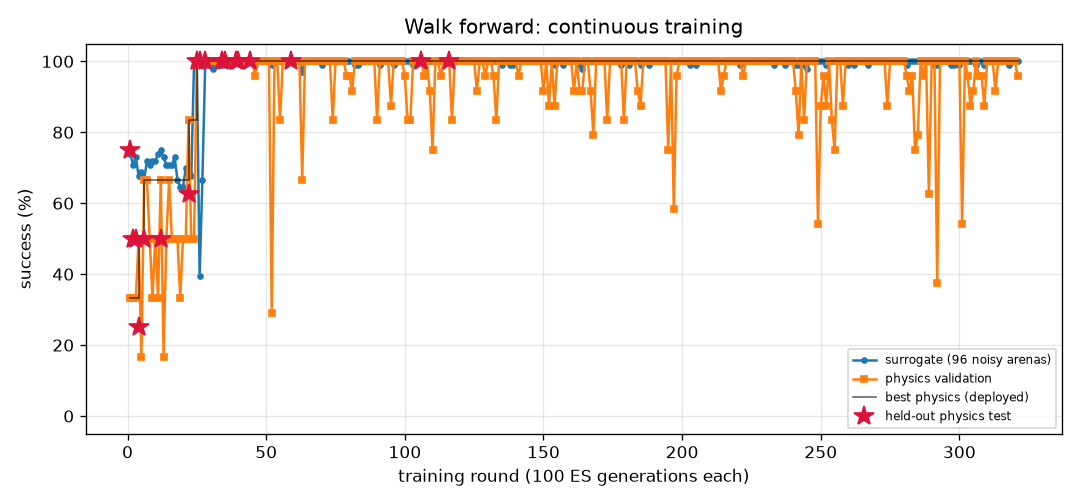
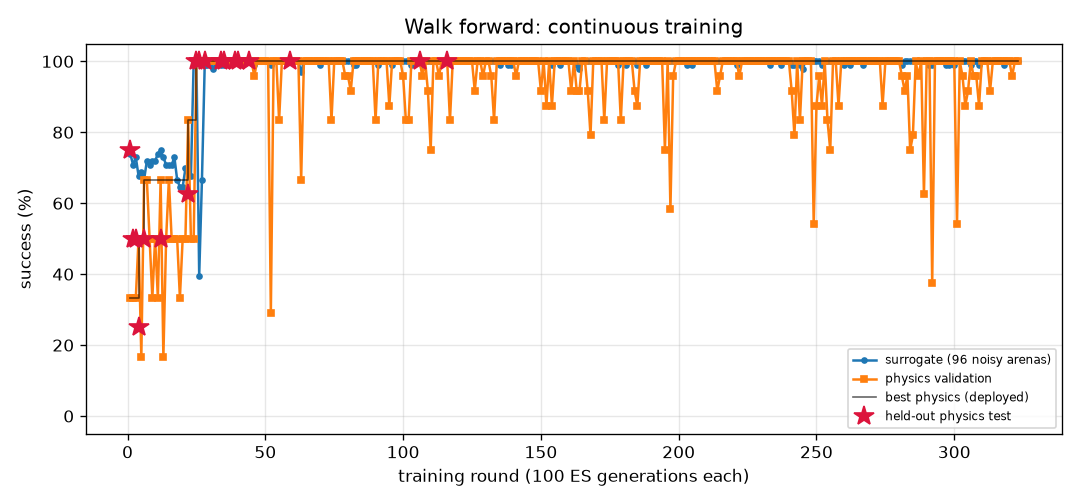
FlyLab: continuous training progress
- walk_forward: optimal, physics val 100% of 24, round 323
- turn: optimal, physics val 100% of 24, round 924
- goto: optimal, physics val 100% of 24, round 259
- odor_seek: optimal, physics val 100% of 24, round 212
- odor_avoid: optimal, physics val 100% of 24, round 829
- light_seek: optimal, physics val 100% of 24, round 454
- light_avoid: optimal, physics val 100% of 24, round 561

diff --git a/projects/09_flylab/training/turn/REPORT.md b/projects/09_flylab/training/turn/REPORT.md
@@ -1,14 +1,14 @@
 # Turn in place (`turn`) — training report
 
-*Auto-generated by `train_brains.py`, last updated 2026-11-07T21:36:52.*
+*Auto-generated by `train_brains.py`, last updated 2026-11-08T09:55:24.*
 
 ![curve](curve.png)
 
 | | |
 |---|---|
-| rounds | 921 |
-| ES generations | 92100 |
-| physics runs | 22350 |
+| rounds | 924 |
+| ES generations | 92400 |
+| physics runs | 22422 |
 | status | **optimal** |
 | best brain | round 80: physics validation **100%** on 24 arenas, surrogate 100% |
 | held-out physics test | **97%** on 32 unseen arenas (95% CI 84%-99%) (errors: [1.6, 3.3, 6.3, 3.7, 1.1, 0.4, 2.4, 2.9, 0.1, 2.6, 0.5, 2.7, 1.5, 3.1, 4.5, 0.2, 0.5, 1.1, 2.0, 4.4, 2.8, 3.2, 0.3, 2.2, 0.5, 3.0, 0.3, 5.4, 0.4, 1.0, 4.7, 10.7]) |
@@ -17,9 +17,6 @@ Physics error per arena: deg from target heading (< 20 = success).
 
 | round | level | gens | sigma | surrogate | physics val | val errors | test | note |
 |---:|---:|---:|---:|---:|---:|---|---:|---|
-| 882 | 3 | 88200 | 0.025 | 99% | 92% | [4.3, 6.5, 3.5, 3.1, 1.2, 3.2, 3.8, 4.4, 3.0, 0.9, 3.1, 1.0, 1.5, 3.1, 2.8, 1.1, 0.8, 0.0, 0.3, 1.5, 2.9, 1.0, 6.4, 4.2] |  |  |
-| 883 | 3 | 88300 | 0.025 | 100% | 88% | [0.6, 0.9, 2.7, 0.5, 3.4, 2.0, 7.3, 7.1, 7.0, 2.5, 3.1, 2.7, 0.3, 0.6, 1.3, 4.1, 3.1, 1.6, 11.4, 12.9, 0.2, 2.7, 7.9, 5.3] |  |  |
-| 884 | 3 | 88400 | 0.024 | 100% | 96% | [2.9, 1.0, 4.2, 1.4, 14.1, 0.3, 5.6, 7.6, 5.7, 13.9, 3.7, 2.8, 0.0, 1.2, 4.6, 3.0, 1.3, 1.3, 2.9, 5.4, 5.1, 1.2, 4.8, 3.2] |  | restart from best |
 | 885 | 3 | 88500 | 0.024 | 99% | 79% | [4.5, 1.3, 4.0, 0.7, 0.9, 0.6, 4.6, 2.0, 7.9, 0.1, 5.9, 0.3, 0.7, 2.7, 5.9, 1.0, 0.1, 2.7, 3.9, 3.1, 5.4, 2.8, 6.6, 7.3] |  |  |
 | 886 | 3 | 88600 | 0.025 | 98% | 75% | [6.5, 9.0, 10.1, 0.7, 3.6, 3.9, 4.2, 0.9, 3.7, 0.9, 2.7, 2.0, 0.0, 4.9, 2.6, 1.3, 2.3, 0.5, 2.8, 1.2, 6.3, 1.3, 2.2, 0.4] |  |  |
 | 887 | 3 | 88700 | 0.025 | 100% | 96% | [1.9, 2.7, 7.1, 0.4, 15.7, 6.4, 8.6, 10.0, 8.6, 1.3, 4.6, 2.0, 0.8, 0.7, 5.5, 5.3, 2.0, 4.6, 2.8, 5.1, 1.7, 2.7, 6.1, 6.5] |  |  |
@@ -57,3 +54,6 @@ Physics error per arena: deg from target heading (< 20 = success).
 | 919 | 3 | 91900 | 0.025 | 99% | 100% | [12.7, 9.9, 15.6, 6.8, 5.8, 3.5, 9.7, 11.8, 9.1, 16.5, 5.8, 9.7, 5.1, 5.9, 5.8, 17.0, 9.6, 16.3, 16.1, 7.2, 0.4, 7.1, 8.2, 12.0] |  |  |
 | 920 | 3 | 92000 | 0.025 | 96% | 71% | [7.9, 1.0, 7.8, 1.0, 2.0, 0.9, 5.3, 2.6, 6.7, 13.3, 4.5, 1.9, 1.2, 3.3, 4.0, 15.1, 1.0, 3.1, 1.2, 1.0, 3.7, 0.8, 5.4, 6.9] |  | restart from best |
 | 921 | 3 | 92100 | 0.024 | 99% | 83% | [1.6, 4.2, 0.8, 0.4, 13.8, 2.4, 6.0, 0.0, 5.6, 1.8, 4.2, 0.4, 0.0, 3.2, 3.0, 0.1, 0.4, 2.0, 0.9, 0.5, 4.9, 0.2, 5.3, 5.5] |  |  |
+| 922 | 3 | 92200 | 0.025 | 100% | 83% | [4.2, 4.8, 1.7, 0.0, 3.3, 3.0, 4.7, 4.5, 5.0, 0.3, 4.2, 0.9, 1.0, 3.0, 3.2, 1.2, 0.7, 0.4, 2.5, 1.2, 5.6, 1.4, 6.5, 6.1] |  |  |
+| 923 | 3 | 92300 | 0.024 | 99% | 75% | [9.3, 8.0, 4.4, 1.8, 2.2, 1.4, 3.1, 0.3, 1.1, 0.2, 4.0, 1.6, 4.0, 2.9, 3.4, 1.5, 0.9, 0.4, 1.3, 1.4, 6.7, 0.4, 3.9, 3.3] |  |  |
+| 924 | 3 | 92400 | 0.025 | 100% | 88% | [5.6, 3.4, 8.0, 2.9, 0.7, 4.3, 9.5, 8.2, 9.5, 1.6, 6.7, 4.6, 2.9, 0.0, 5.0, 3.9, 4.3, 4.0, 4.2, 4.3, 0.5, 0.8, 5.5, 8.7] |  | restart from best |

diff --git a/projects/09_flylab/training/light_seek/REPORT.md b/projects/09_flylab/training/light_seek/REPORT.md
@@ -1,14 +1,14 @@
 # Walk toward light (`light_seek`) — training report
 
-*Auto-generated by `train_brains.py`, last updated 2026-11-07T22:57:23.*
+*Auto-generated by `train_brains.py`, last updated 2026-11-07T23:30:08.*
 
 ![curve](curve.png)
 
 | | |
 |---|---|
-| rounds | 452 |
-| ES generations | 45200 |
-| physics runs | 7728 |
+| rounds | 454 |
+| ES generations | 45400 |
+| physics runs | 7776 |
 | status | **optimal** |
 | best brain | round 375: physics validation **100%** on 24 arenas, surrogate 100% |
 | held-out physics test | **100%** on 32 unseen arenas (95% CI 89%-100%) (errors: [0.57, 0.54, 0.53, 0.57, 0.55, 0.56, 0.59, 0.56, 0.53, 0.56, 0.71, 0.56, 0.55, 0.54, 0.53, 0.54, 0.54, 0.55, 0.52, 0.65, 0.64, 0.7, 0.58, 0.57, 0.6, 0.62, 0.55, 0.88, 0.54, 0.52, 0.62, 0.57]) |
@@ -17,8 +17,6 @@ Physics error per arena: mm from target at the end (< 1.5 and standing still = s
 
 | round | level | gens | sigma | surrogate | physics val | val errors | test | note |
 |---:|---:|---:|---:|---:|---:|---|---:|---|
-| 413 | 3 | 41300 | 0.024 | 100% | 100% | [0.53, 0.49, 0.51, 0.9, 0.5, 0.51, 0.52, 0.56, 0.6, 0.51, 0.88, 0.65, 0.6, 0.56, 0.91, 0.91, 0.57, 0.59, 0.52, 0.88, 0.61, 0.64, 0.58, 0.5] |  |  |
-| 414 | 3 | 41400 | 0.024 | 100% | 92% | [0.58, 0.69, 0.5, 0.46, 0.57, 0.58, 1.39, 0.72, 0.64, 0.54, 0.64, 0.47, 1.16, 0.62, 1.09, 0.52, 0.58, 0.84, 0.6, 0.6, 0.48, 0.57, 0.62, 1.58] |  |  |
 | 415 | 3 | 41500 | 0.024 | 100% | 100% | [1.04, 0.63, 0.75, 0.56, 0.59, 0.59, 0.62, 0.57, 0.73, 0.57, 0.52, 0.56, 0.65, 1.07, 0.99, 0.56, 0.66, 0.57, 0.68, 0.55, 1.11, 0.61, 0.72, 0.53] |  | restart from best |
 | 416 | 3 | 41600 | 0.024 | 100% | 100% | [0.61, 0.61, 0.64, 1.18, 0.6, 0.68, 0.7, 0.64, 0.58, 0.6, 0.69, 0.58, 0.57, 0.65, 0.7, 0.57, 0.65, 0.65, 0.62, 0.63, 0.75, 0.61, 0.63, 0.64] |  |  |
 | 417 | 3 | 41700 | 0.024 | 100% | 100% | [0.79, 0.75, 0.64, 0.79, 0.87, 0.73, 0.68, 0.65, 0.74, 0.78, 0.65, 0.54, 0.76, 0.71, 0.98, 0.69, 0.69, 0.67, 0.79, 0.67, 0.76, 0.53, 0.76, 0.73] |  |  |
@@ -57,3 +55,5 @@ Physics error per arena: mm from target at the end (< 1.5 and standing still = s
 | 450 | 3 | 45000 | 0.024 | 100% | 96% | [0.78, 0.6, 0.75, 0.74, 0.62, 0.61, 0.54, 0.67, 0.55, 0.6, 0.54, 0.81, 0.58, 2.45, 0.7, 0.64, 0.55, 0.61, 0.55, 0.68, 0.64, 0.67, 0.68, 0.69] |  |  |
 | 451 | 3 | 45100 | 0.024 | 100% | 100% | [0.62, 0.56, 0.63, 1.5, 0.62, 0.61, 0.51, 0.55, 0.59, 0.52, 0.56, 0.59, 0.54, 0.59, 1.03, 0.5, 0.49, 0.65, 0.6, 0.65, 1.0, 0.52, 0.58, 0.51] |  | restart from best |
 | 452 | 3 | 45200 | 0.024 | 100% | 100% | [0.61, 0.54, 0.54, 1.47, 0.55, 0.59, 0.61, 0.58, 0.54, 0.58, 0.65, 0.58, 0.54, 0.54, 0.59, 0.56, 0.59, 0.57, 0.55, 0.61, 0.69, 0.85, 0.53, 0.53] |  |  |
+| 453 | 3 | 45300 | 0.024 | 100% | 100% | [1.04, 0.72, 0.56, 0.61, 0.52, 0.52, 0.59, 0.53, 0.61, 0.57, 0.64, 0.54, 0.83, 0.53, 0.56, 0.52, 0.57, 0.55, 0.6, 0.6, 0.5, 0.79, 0.5, 0.56] |  |  |
+| 454 | 3 | 45400 | 0.024 | 100% | 96% | [0.94, 0.46, 0.51, 0.92, 0.53, 0.45, 1.83, 0.47, 0.54, 0.58, 0.47, 0.46, 0.47, 1.11, 0.92, 0.61, 0.57, 0.51, 0.49, 0.45, 0.58, 0.53, 0.52, 0.55] |  |  |

diff --git a/projects/09_flylab/training/walk_forward/REPORT.md b/projects/09_flylab/training/walk_forward/REPORT.md
@@ -1,14 +1,14 @@
 # Walk forward (`walk_forward`) — training report
 
-*Auto-generated by `train_brains.py`, last updated 2026-11-07T22:58:41.*
+*Auto-generated by `train_brains.py`, last updated 2026-11-07T23:22:01.*
 
 ![curve](curve.png)
 
 | | |
 |---|---|
-| rounds | 321 |
-| ES generations | 32100 |
-| physics runs | 7718 |
+| rounds | 323 |
+| ES generations | 32300 |
+| physics runs | 7766 |
 | status | **optimal** |
 | best brain | round 116: physics validation **100%** on 24 arenas, surrogate 100% |
 | held-out physics test | **100%** on 32 unseen arenas (95% CI 89%-100%) (errors: [0.13, 0.16, 0.19, 0.16, 0.15, 0.2, 0.17, 0.18, 0.17, 0.19, 0.2, 0.14, 0.17, 0.19, 0.2, 0.2, 0.13, 0.19, 0.16, 0.2, 0.2, 0.16, 0.17, 0.2, 0.13, 0.15, 0.18, 0.14, 0.16, 0.15, 0.19, 0.12]) |
@@ -17,8 +17,6 @@ Physics error per arena: mm from target at the end (< 1.5 and standing still = s
 
 | round | level | gens | sigma | surrogate | physics val | val errors | test | note |
 |---:|---:|---:|---:|---:|---:|---|---:|---|
-| 282 | 3 | 28200 | 0.025 | 100% | 92% | [0.17, 0.23, 0.06, 0.16, 0.23, 0.05, 0.23, 0.09, 0.23, 0.22, 0.05, 0.21, 0.17, 0.07, 0.2, 0.22, 0.14, 0.22, 0.06, 0.2, 0.11, 0.22, 0.2, 0.38] |  |  |
-| 283 | 3 | 28300 | 0.024 | 100% | 96% | [0.21, 0.25, 0.08, 0.21, 0.26, 0.09, 0.25, 0.01, 0.26, 0.23, 0.03, 0.09, 0.08, 0.09, 0.23, 0.1, 0.19, 0.25, 0.05, 0.24, 0.14, 0.2, 0.08, 0.04] |  |  |
 | 284 | 3 | 28400 | 0.024 | 100% | 75% | [0.11, 0.19, 1.24, 0.11, 0.19, 0.04, 0.19, 3.17, 0.19, 0.2, 0.04, 0.19, 0.58, 0.06, 0.12, 0.19, 0.1, 0.18, 1.45, 0.14, 0.23, 0.2, 0.19, 0.06] |  | restart from best |
 | 285 | 3 | 28500 | 0.024 | 100% | 79% | [0.22, 0.07, 0.26, 0.12, 0.1, 0.06, 0.11, 0.02, 0.1, 0.16, 0.37, 0.2, 0.21, 0.25, 0.1, 0.16, 0.05, 0.06, 0.03, 0.2, 0.07, 0.17, 0.21, 0.25] |  |  |
 | 286 | 3 | 28600 | 0.024 | 100% | 100% | [0.25, 0.24, 0.26, 0.25, 0.25, 0.25, 0.25, 0.27, 0.24, 0.23, 0.23, 0.25, 0.26, 0.25, 0.26, 0.24, 0.26, 0.25, 0.26, 0.25, 0.27, 0.22, 0.29, 0.26] |  |  |
@@ -57,3 +55,5 @@ Physics error per arena: mm from target at the end (< 1.5 and standing still = s
 | 319 | 3 | 31900 | 0.025 | 100% | 100% | [0.25, 0.32, 0.15, 0.24, 0.33, 0.11, 0.35, 0.23, 0.33, 0.37, 0.08, 0.37, 0.18, 0.1, 0.32, 0.42, 0.24, 0.34, 0.22, 0.32, 0.21, 0.38, 0.44, 0.22] |  |  |
 | 320 | 3 | 32000 | 0.024 | 100% | 100% | [0.18, 0.13, 0.04, 0.17, 0.09, 0.04, 0.12, 0.07, 0.13, 0.09, 0.06, 0.12, 0.16, 0.06, 0.06, 0.09, 0.16, 0.16, 0.06, 0.08, 0.17, 0.08, 0.09, 0.16] |  | restart from best |
 | 321 | 3 | 32100 | 0.024 | 100% | 96% | [0.09, 0.21, 0.1, 0.07, 0.14, 0.18, 0.19, 0.25, 0.14, 0.22, 0.19, 0.19, 0.24, 0.2, 0.06, 0.18, 0.06, 0.12, 0.14, 0.06, 0.16, 0.22, 0.17, 0.24] |  |  |
+| 322 | 3 | 32200 | 0.024 | 100% | 100% | [0.12, 0.19, 0.1, 0.16, 0.19, 0.08, 0.2, 0.07, 0.19, 0.26, 0.05, 0.24, 0.1, 0.08, 0.2, 0.25, 0.1, 0.2, 0.07, 0.15, 0.06, 0.24, 0.16, 0.1] |  |  |
+| 323 | 3 | 32300 | 0.024 | 100% | 100% | [0.24, 0.31, 0.21, 0.23, 0.31, 0.22, 0.3, 0.21, 0.31, 0.31, 0.22, 0.29, 0.21, 0.22, 0.26, 0.29, 0.23, 0.29, 0.21, 0.27, 0.22, 0.3, 0.28, 0.21] |  |  |

diff --git a/projects/09_flylab/training/TRAINING.md b/projects/09_flylab/training/TRAINING.md
@@ -1,15 +1,15 @@
 # FlyLab brains — continuous training log
 
-*Auto-generated by `train_brains.py`, last updated 2026-11-07T22:58:41.*
+*Auto-generated by `train_brains.py`, last updated 2026-11-08T09:55:24.*
 
 Every skill has its own brain and its own training process: surrogate ES rounds, physics validation in MuJoCo, keep-the-best selection, and a held-out physics test that is never used for selection. See each skill's report for its full round-by-round history. Mastery is progressive: passing a level (100% physics validation, >=95% surrogate) doubles the validation and test arena sets; a brain is **optimal** once it holds up at level 3 (>=95% of 24 validation arenas) AND scores >=90% on the 32 held-out test arenas. Test columns show 95% Wilson confidence intervals.
 
 | skill | rounds | ES generations | physics runs | surrogate | physics val | **physics test** | status |
 |---|---:|---:|---:|---:|---:|---:|---|
-| [Walk forward](walk_forward/REPORT.md) | 321 | 32100 | 7718 | 100% | 100% of 24 | 100% of 32 (CI 89-100%) | **optimal** |
-| [Turn in place](turn/REPORT.md) | 921 | 92100 | 22350 | 100% | 100% of 24 | 97% of 32 (CI 84-99%) | **optimal** |
+| [Walk forward](walk_forward/REPORT.md) | 323 | 32300 | 7766 | 100% | 100% of 24 | 100% of 32 (CI 89-100%) | **optimal** |
+| [Turn in place](turn/REPORT.md) | 924 | 92400 | 22422 | 100% | 100% of 24 | 97% of 32 (CI 84-99%) | **optimal** |
 | [Go to a location](goto/REPORT.md) | 259 | 25900 | 6166 | 100% | 100% of 24 | 100% of 32 (CI 89-100%) | **optimal** |
 | [Find food by smell](odor_seek/REPORT.md) | 212 | 21200 | 4518 | 100% | 100% of 24 | 100% of 32 (CI 89-100%) | **optimal** |
 | [Escape a bad smell](odor_avoid/REPORT.md) | 829 | 82900 | 17202 | 97% | 100% of 24 | 97% of 32 (CI 84-99%) | **optimal** |
-| [Walk toward light](light_seek/REPORT.md) | 452 | 45200 | 7728 | 100% | 100% of 24 | 100% of 32 (CI 89-100%) | **optimal** |
+| [Walk toward light](light_seek/REPORT.md) | 454 | 45400 | 7776 | 100% | 100% of 24 | 100% of 32 (CI 89-100%) | **optimal** |
 | [Hide from light](light_avoid/REPORT.md) | 561 | 56100 | 13736 | 100% | 100% of 24 | 100% of 32 (CI 89-100%) | **optimal** |
